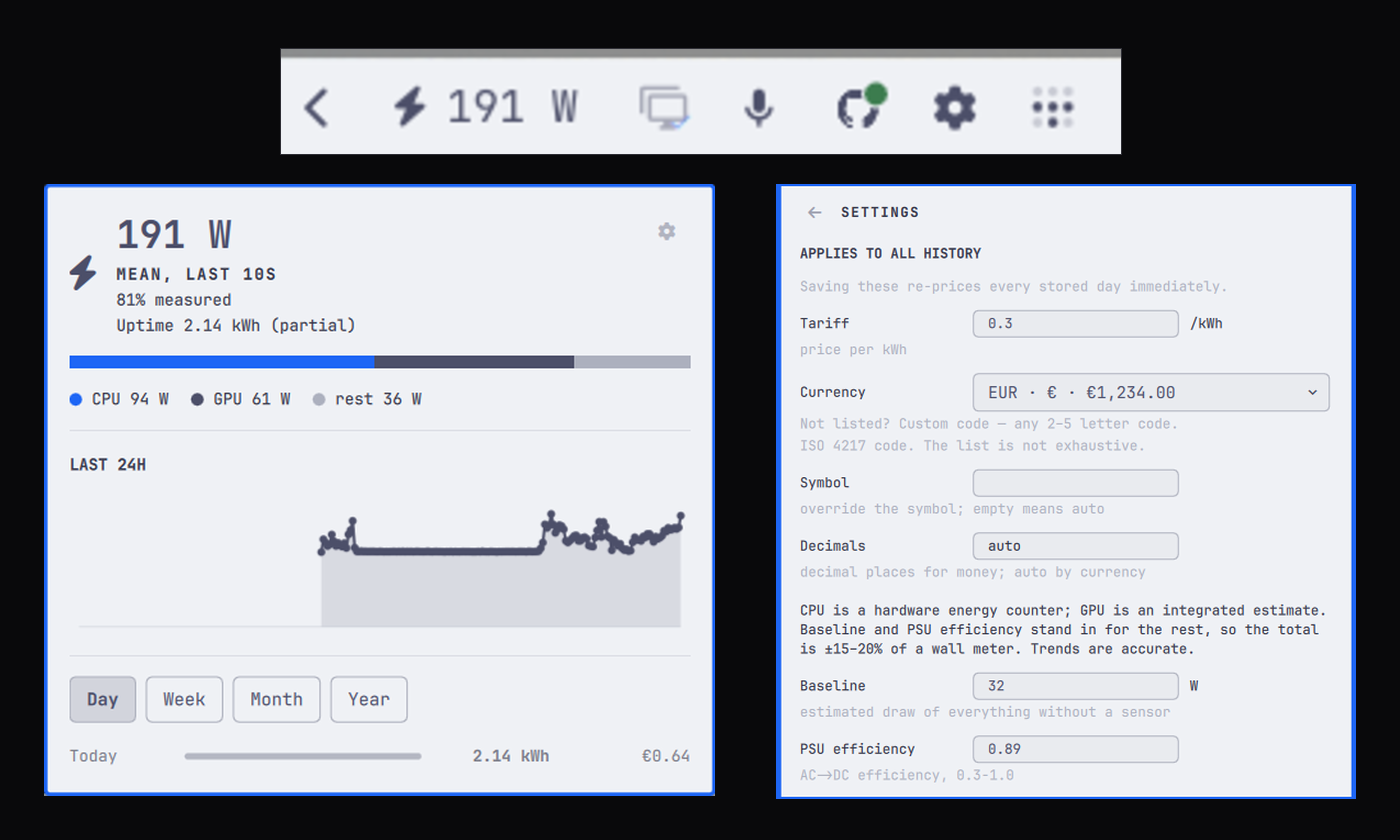
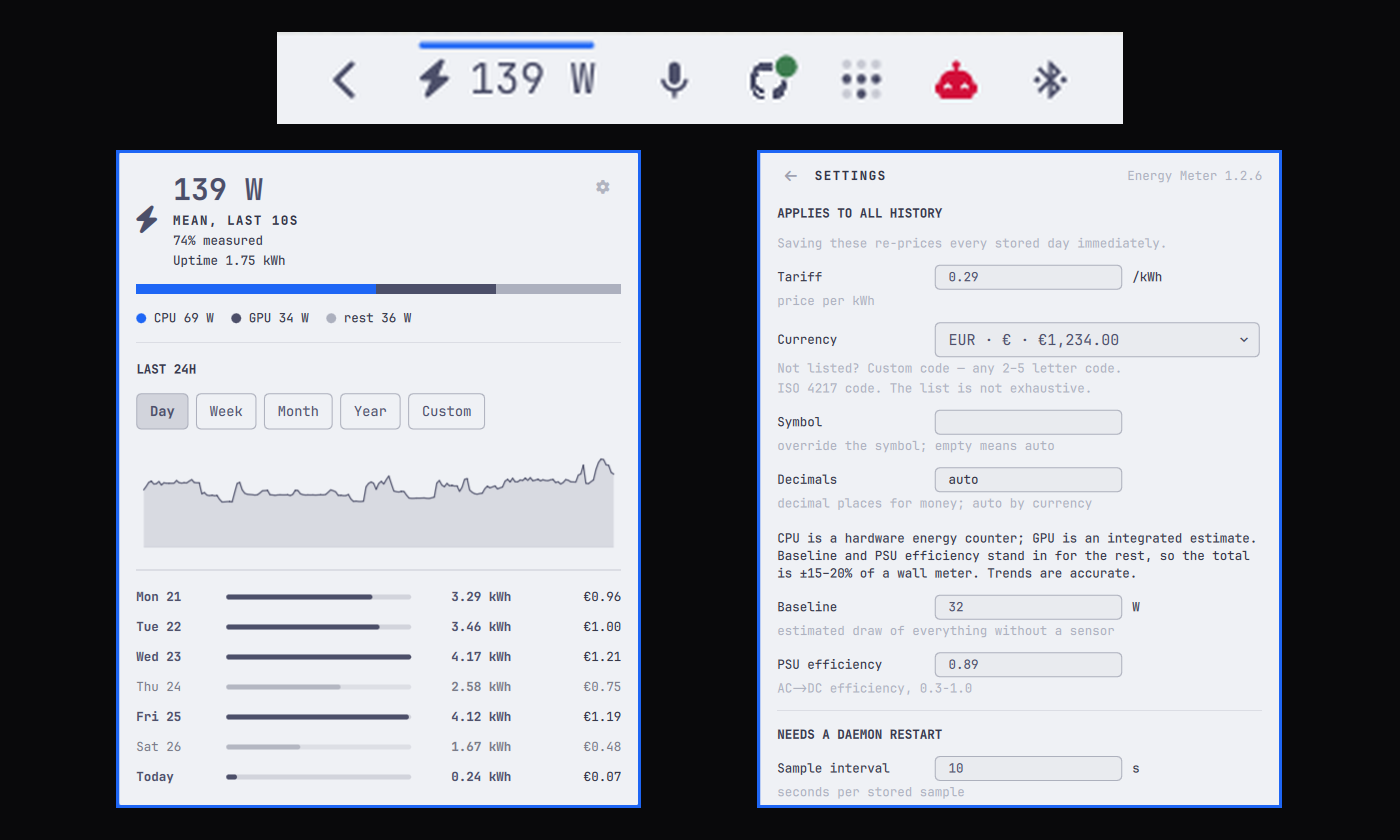
Cut 1.2.6
preview.png is recaptured for this version: the panel with the graph
following the Day filter and the new Custom period, and the settings pane
with the version in its header, which reads 1.2.6 because it was captured
from this commit. Same 1400x840 composite as 1.2.1 so the marketplace card
does not crop: the bar strip, then the two panes at 1:1, each in the drawn
accent frame the 1.2.1 preview used. Every other pixel is a capture.

diff --git a/CHANGELOG.md b/CHANGELOG.md
@@ -12,7 +12,7 @@ stable default branch is the only way to keep unreleased work out of your
 install. `manifest.json`'s `version` is a display string with no effect of its
 own. See [CONTRIBUTING → Release](CONTRIBUTING.md#release--marketplace).
 
-## Unreleased
+## 1.2.6
 
 **Added**
 
